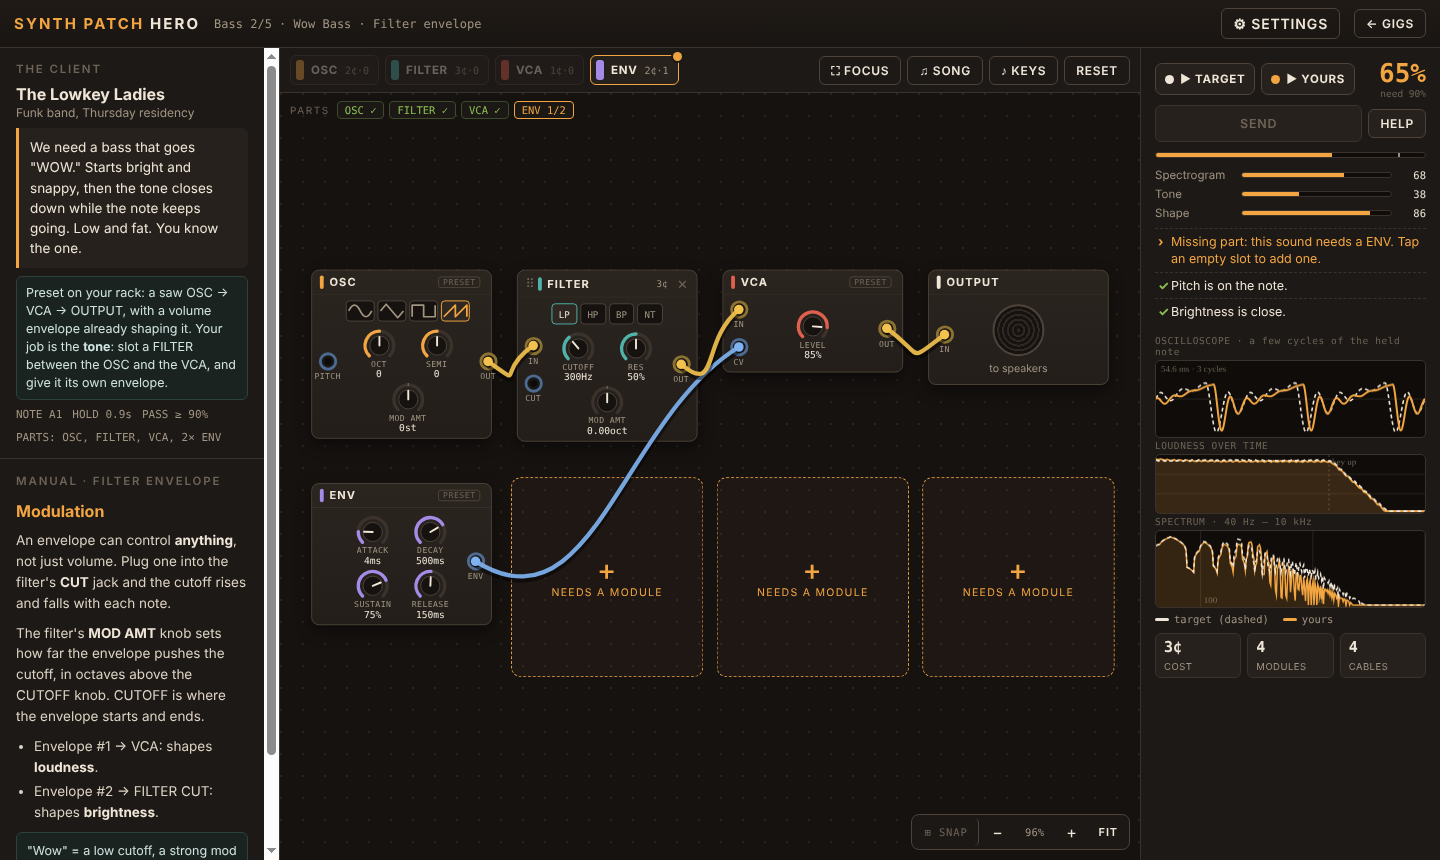
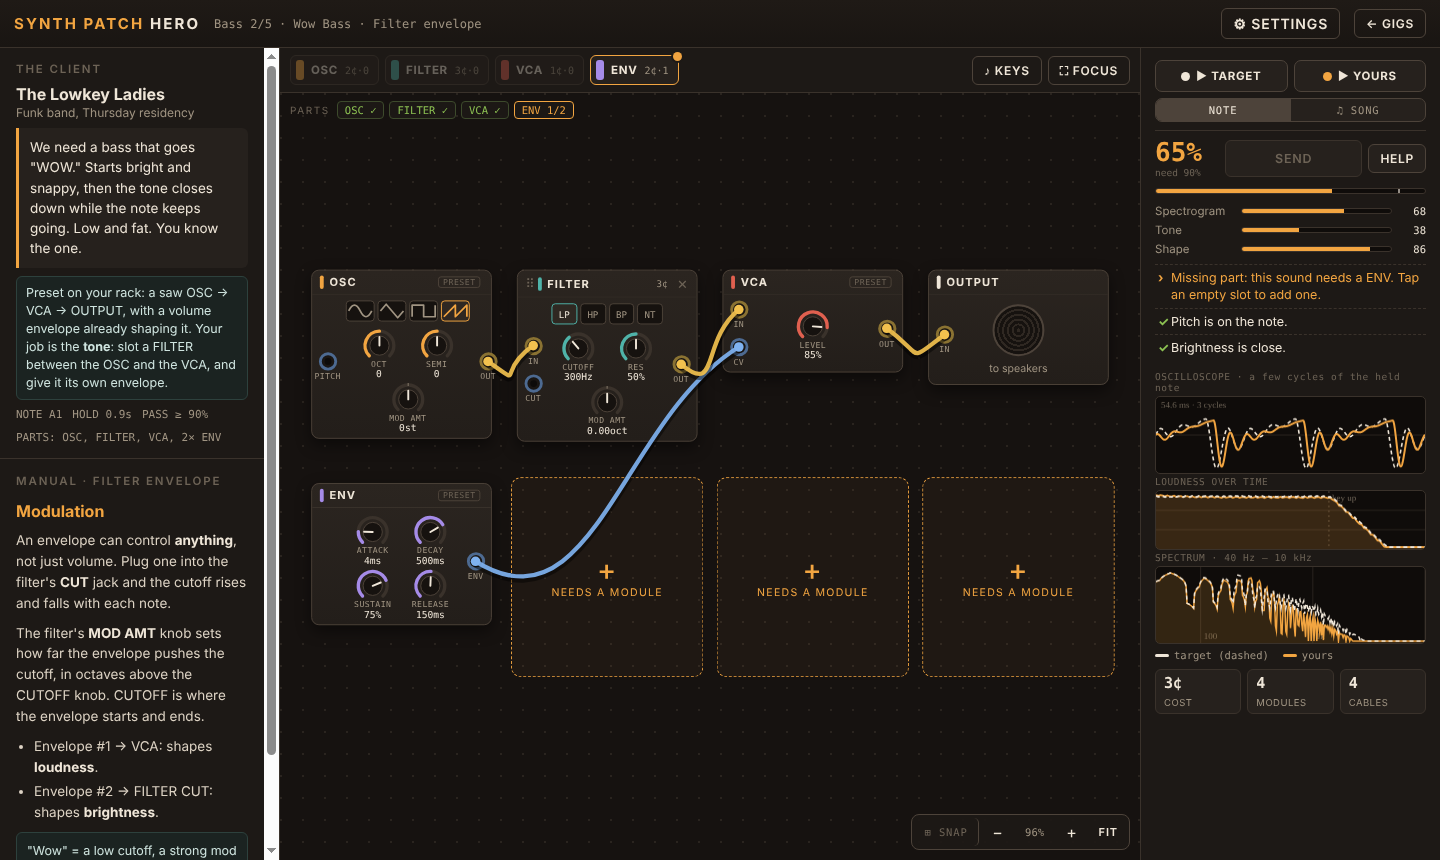
Tidy controls: Listen and Score groups; toolbar holds only view switches
Playtest: in focus mode "the buttons are kind of all over the place".
- The compare panel splits into Listen (▶ Target, ▶ Yours, and a
  Note | Song switch that sets what ▶ plays) and Score (match %, Send,
  Help). In focus mode on wide screens they sit side by side.
- The toolbar's right side holds only view switches: Keys and
  Focus / Exit focus. Reset moved to Settings → Reset this rack. Phones
  keep their compact strip, with ♫ beside Keys and Focus.
- No layout jump on open: graphs are sized at render, and phones reserve
  two lines for the hint. The first analysis used to move the toolbar
  31 px about 250 ms after a gig opened, which also made the iPhone tap
  test flaky.

Claude-Session: https://claude.ai/code/session_01D5scM1CNbwhd8cCv6p5T59

diff --git a/js/ui.js b/js/ui.js
@@ -579,8 +579,10 @@ function startCable(ev,portEl){
 /* ---------- compare panel ---------- */
 function renderCompare(){
   const c=$('#compare'), sb=S.sandbox; c.classList.remove('expanded');
-  c.innerHTML=`<div class="cmpTop">${sb?'':'<button class="playBtn t" id="pT"><span class="dot"></span>▶ TARGET</button>'}<button class="playBtn y" id="pY"><span class="dot"></span>▶ ${sb?'PLAY':'YOURS'}</button>
-    ${sb?'<div class="pctBox"><small>FREE JAM</small></div>':`<div class="pctBox"><b id="pct">–</b><small id="pctSub">need ${PASS}%</small></div><button class="btn primary" id="btnSubmit" disabled>Send</button><button class="btn" id="btnHelp" title="Stuck? Get a hint, or let Help patch a module or lock a knob"><span class="lbl">Help</span><span class="ico">?</span></button>`}</div>
+  c.innerHTML=`<div class="cmpTop">
+      <div class="grp listen" role="group" aria-label="Listen">${sb?'':'<button class="playBtn t" id="pT"><span class="dot"></span>▶ TARGET</button>'}<button class="playBtn y" id="pY"><span class="dot"></span>▶ ${sb?'PLAY':'YOURS'}</button>
+        <div class="seg" id="playSeg" role="group" aria-label="What ▶ plays"><button data-m="note" title="▶ plays one held note">NOTE</button><button data-m="song" title="▶ plays a short demo song (the same one you'll hear when you're paid)">♫ SONG</button></div></div>
+      <div class="grp score" role="group" aria-label="Score">${sb?'<div class="pctBox"><small>FREE JAM</small></div>':`<div class="pctBox"><b id="pct">–</b><small id="pctSub">need ${PASS}%</small></div><button class="btn primary" id="btnSubmit" disabled>Send</button><button class="btn" id="btnHelp" title="Stuck? Get a hint, or let Help patch a module or lock a knob"><span class="lbl">Help</span><span class="ico">?</span></button>`}</div></div>
     ${sb?'':`<div class="bar"><i id="barAll"></i><span class="thr" style="left:${PASS}%"></span></div>`}
     <div class="cmpBody">
       ${sb?'':`<div class="subs"><div class="sub"><span>Spectrogram</span><div class="bar"><i id="barSpec"></i></div><span id="vSpec"></span></div>
@@ -597,6 +599,8 @@ function renderCompare(){
       <div class="stats" id="stats"></div>
     </div>`;
   ['#pT','#pY','#btnHelp','#btnSubmit'].forEach(sel=>Haptics.upgrade(c.querySelector(sel)));
+  c.querySelectorAll('#playSeg button').forEach(b0=>{ const b=Haptics.upgrade(b0); b.addEventListener('click',()=>setSongMode(b.dataset.m==='song',true)); }); syncSongUI();
+  c.querySelectorAll('canvas.plot').forEach(cv=>{ try{ setupCanvas(cv); }catch(_){} });   // size graphs now, so the panel doesn't jump when the first analysis lands
   if(!sb){ $('#pT').onclick=()=>playTarget(); $('#btnSubmit').onclick=submit; $('#btnHelp').onclick=requestHelp;
     $('#hints').addEventListener('click',()=>{ if(S.mobile) toggleExpanded(); }); }
   $('#pY').onclick=()=>playYours();
@@ -617,9 +621,11 @@ function applyEngine(L){ const lad=!!(L&&L.studio==='ladder'); if(ENGINE!=='stud
 S.songMode=!!store.get('songMode',false);
 function playTarget(){ if(S.songMode&&!S.sandbox) flashPlay('pT',playSong(targetPatch(S.L),S.L)); else playFixed(targetPatch(S.L),S.L,'pT'); }
 function playYours(){ if(S.songMode) flashPlay('pY',playSong(S.patch,S.L||{note:45,ch:'basics'})); else playFixed(S.patch,S.L,'pY'); }
-function setSongMode(on){ S.songMode=on; store.set('songMode',on); stopOneShots(); const b=$('#songBtn'); b.classList.toggle('on',on); b.setAttribute('aria-pressed',on);
-  b.title=on?'Song mode is on: ▶ Target and ▶ Yours play a demo song. Tap for single notes.':'Song mode: ▶ Target and ▶ Yours play a short demo song instead of one note';
-  if(on) toast('Song mode: ▶ Target and ▶ Yours now play a short demo song.'); }
+function syncSongUI(){ const on=S.songMode, b=$('#songBtn'); if(b){ b.classList.toggle('on',on); b.setAttribute('aria-pressed',on);
+    b.title=on?'Song mode is on: ▶ Target and ▶ Yours play a demo song. Tap for single notes.':'Song mode: ▶ Target and ▶ Yours play a short demo song instead of one note'; }
+  document.querySelectorAll('#playSeg [data-m]').forEach(x=>{ const sel=(x.dataset.m==='song')===on; x.classList.toggle('on',sel); x.setAttribute('aria-pressed',sel); }); }
+function setSongMode(on,quiet){ if(on===S.songMode&&quiet) return; S.songMode=on; store.set('songMode',on); stopOneShots(); syncSongUI();
+  if(on&&!quiet) toast('Song mode: ▶ Target and ▶ Yours now play a short demo song.'); }
 function flashPlay(id,dur){ const b=document.getElementById(id); if(!b) return; b.classList.add('lit'); setTimeout(()=>b.classList.remove('lit'),dur*1000); }
 
 let aTimer=null, aSeq=0;
@@ -756,12 +762,10 @@ let rzT=null;
 window.addEventListener('resize',()=>{ clearTimeout(rzT); rzT=setTimeout(()=>{ if(!S.L) return; if(!S.userZoom) fitView(); else { clampView(); applyView(); } drawCables(); drawPlots(); renderKeys(); },80); });
 $('#kbDn').onclick=()=>{ S.kbLo-=12; renderKeys(); };
 $('#kbUp').onclick=()=>{ S.kbLo+=12; renderKeys(); };
-$('#songBtn').onclick=()=>setSongMode(!S.songMode); $('#songBtn').classList.toggle('on',S.songMode);
+$('#songBtn').onclick=()=>setSongMode(!S.songMode); syncSongUI();
 $('#keysBtn').onclick=()=>setKeysOpen(!S.keysOpen);
 $('#focusBtn').onclick=()=>setFocus(!S.focus);
 function resetRack(){ S.pick=null; showPatchbar(); freshPatch(); refreshRack(); scheduleAnalyze(); toast('Rack reset'); }
-$('#clearBtn').onclick=()=>{ const b=$('#clearBtn'); if(!b.dataset.armed){ b.dataset.armed=1; b.textContent='Sure?'; setTimeout(()=>{ b.textContent='Reset'; delete b.dataset.armed; },2500); return; }
-  delete b.dataset.armed; b.textContent='Reset'; resetRack(); };
 $('#kbClose').onclick=()=>setKeysOpen(false);
 /* ---------- settings sheet (⚙ in the top bar) ---------- */
 function openSettings(){

diff --git a/css/style.css b/css/style.css
@@ -546,3 +546,38 @@ label.kbClose,#btnHelp[role=button]{display:inline-flex;align-items:center;justi
 .zoomCtl .snap.on{color:var(--amber)}
 .slot.covered{border:1px dashed rgba(255,255,255,.05);background:transparent;pointer-events:none}
 .module.floating{box-shadow:0 10px 24px rgba(0,0,0,.55);z-index:3}
+
+/* ---------- Compare header: Listen (what plays) and Score (how you're doing) as two clear groups ---------- */
+.cmpTop{display:flex;flex-direction:column;align-items:stretch;gap:8px}
+.cmpTop .grp{display:grid;gap:6px;align-items:center}
+.cmpTop .grp.listen{grid-template-columns:1fr 1fr}
+.cmpTop .grp.listen .seg{grid-column:1/-1}
+.cmpTop .grp.score{grid-template-columns:auto 1fr auto;padding-top:8px;border-top:1px solid var(--line)}
+.cmpTop .grp.score .pctBox{text-align:left;min-width:64px}
+.cmpTop #btnSubmit{flex-basis:auto}
+.seg{display:flex;border:1px solid var(--line2);border-radius:7px;overflow:hidden;background:var(--panel2)}
+.seg button,.seg label[role=button]{flex:1;display:flex;align-items:center;justify-content:center;padding:5px 8px;font-family:var(--mono);font-size:10.5px;letter-spacing:.08em;color:var(--dim);background:transparent;border:0;cursor:pointer}
+.seg button+button,.seg label[role=button]+label[role=button]{border-left:1px solid var(--line2)}
+.seg .on{background:var(--line2);color:var(--text)}
+.seg [data-m=song].on{color:var(--amber)}
+/* Toolbar: only view switches live on the right, one style. Song mode lives with ▶ Target / ▶ Yours on wide screens. */
+.viewGrp{display:flex;gap:6px;align-items:center}
+@media (min-width:761px){ #songBtn{display:none} }
+#focusBtn.on{border-color:var(--amber);color:var(--amber)}
+/* Focus mode on wide screens: Listen | Score | hints | graphs, in one row */
+@media (min-width:761px){
+  body.focus .cmpTop{flex-direction:row;align-items:center;width:auto;gap:14px;display:flex}
+  body.focus .cmpTop .grp.listen{grid-template-columns:auto auto;width:auto}
+  body.focus .cmpTop .grp.score{grid-template-columns:auto auto auto;border-top:0;padding-top:0;padding-left:14px;border-left:1px solid var(--line);height:100%}
+  body.focus .cmpTop .grp.score .pctBox{min-width:56px}
+  body.focus #btnSubmit{padding:8px 14px}
+}
+/* Phones keep the compact one-row strip: groups dissolve into it; Song stays in the toolbar */
+@media (max-width:760px){
+  .cmpTop{flex-direction:row;align-items:center;gap:5px}
+  .cmpTop .grp{display:contents}
+  .cmpTop .seg{display:none}
+  .cmpTop .grp.score .pctBox{margin-left:auto;text-align:right;min-width:0}
+}
+@media (max-width:760px){ .viewGrp{order:2;flex:none;gap:5px} }
+@media (max-width:760px){ .compare:not(.expanded) #hints{min-height:38px} }   /* room for the 2-line hint from the start: no layout jump when analysis lands */

diff --git a/index.html b/index.html
@@ -47,10 +47,11 @@
       <button class="btn ghost briefBtn" id="briefBtn">Brief</button>
       <div id="palette" style="display:flex;gap:6px"></div>
       <span class="spacer"></span>
-      <button class="btn ghost" id="focusBtn" title="Full-screen focus mode: big board, compact compare bar (Shift+F)"><span class="ico">⛶</span><span class="lbl"> Focus</span></button>
-      <button class="btn ghost" id="songBtn" title="Song mode: ▶ Target and ▶ Yours play a short demo song instead of one note"><span class="ico">♫</span><span class="lbl"> Song</span></button>
-      <button class="btn ghost" id="keysBtn" title="Show the keyboard (USB/MIDI keyboards work even when hidden)"><span class="ico">♪</span><span class="lbl"> Keys</span></button>
-      <button class="btn ghost" id="clearBtn" title="Remove everything you added">Reset</button>
+      <div class="viewGrp" role="group" aria-label="View">
+        <button class="btn ghost" id="songBtn" title="Song mode: ▶ Target and ▶ Yours play a short demo song instead of one note"><span class="ico">♫</span><span class="lbl"> Song</span></button>
+        <button class="btn ghost" id="keysBtn" title="Show the keyboard (USB/MIDI keyboards work even when hidden)"><span class="ico">♪</span><span class="lbl"> Keys</span></button>
+        <button class="btn ghost" id="focusBtn" title="Full-screen focus mode: big board, compact compare bar (Shift+F)"><span class="ico">⛶</span><span class="lbl"> Focus</span></button>
+      </div>
     </div>
     <div class="viewport" id="viewport">
       <div id="stage"><div id="slots"></div><div id="mods"></div><svg id="cables"></svg></div>

diff --git a/docs/design.md b/docs/design.md
@@ -77,6 +77,14 @@ Feedback that drove it: difficulty rises fast (especially the VCA lesson); playe
   - Playtest on iPhone (Chrome): haptics worked for a few seconds, then stopped. Cause: WebKit only plays the switch haptic right after a real tap or release (transient user activation); a finger sliding across a knob, timers and async work don't count. So on iOS we fire only while `navigator.userActivation.isActive`, use a single tick (no delayed pulses), and knobs tick once **on release** after turning instead of during the drag (`Haptics.continuous` is false). Tap-driven feedback still works: −/+ in the knob editor, plugging cables, adding modules, keys, Send. The "crossed 90%" buzz usually arrives after async analysis, so it won't fire on iPhone.
 - **Jingle = the demo song** (playtest 2026-11-23: "be able to test the song jingle while building"). On Send, the result screen plays the gig's demo song on the player's own patch (a copy), with note markers that light in time (one per note, or one per beat for busy songs) and a ♫ Replay song button. It stops when the dialog closes. It's the same song ♫ Song mode plays on ▶ Yours while building, so players can preview exactly what they'll hear when paid. The separate per-chapter jingle phrases were removed. Test: jingle and song render identically.
 
+## Controls layout (playtest 2026-11-23: "buttons are kind of all over the place")
+- **Rule:** keep what plays, how you're doing, and how the screen looks in separate, consistent places, in normal and focus mode.
+- **Compare panel, Listen group:** ▶ Target and ▶ Yours, plus a **Note | Song** switch directly under them. It decides what ▶ plays: one held note, or the demo song that's also the end-of-gig jingle.
+- **Compare panel, Score group:** match %, **Send** and **Help**, under a divider. In focus mode on wide screens, Listen | Score | hints | graphs run left to right in one bar.
+- **Toolbar right side, view switches only:** ♪ Keys and ⛶ Focus (✕ Exit focus while focused, amber). **Reset** moved to ⚙ Settings → Reset this rack, so a destructive button doesn't sit beside view toggles.
+- **Phones:** keep the compact strip (▶ Target · ▶ Yours · % · Send · ?). Song mode stays as the ♫ icon beside Keys and Focus for space.
+- **No layout jump on open:** graphs are sized when the panel renders, and on phones the hint area reserves two lines. Before this, the first analysis resized both, shifting the toolbar 31 px about 250 ms after a gig opened, so taps could land on the wrong control. Test: the phone layout holds still.
+
 ## Browser history and links
 - Playtest, 2026-11-22: pressing Back left the site. Now each screen has an address:
   - the gig board is `#/`;

diff --git a/README.md b/README.md
@@ -20,7 +20,7 @@ There's no build step and there are no dependencies: it's plain HTML, CSS and Ja
 1. **Pick a gig.** Browse by chapter with the chips at the top, or filter to what's left to do. Tap ▶ on any gig card to hear the client's sound in a short demo song before you take it on. Then open it and read the brief and the manual page for that lesson.
 2. **Fill the board.** OUTPUT sits in the top-right slot, and some gigs start with **preset** modules already wired. Tap an empty slot (or a palette button) to add a module. The **Parts** chips (`FILTER 0/1`) tell you what's still missing.
 3. **Patch.** Drag from jack to jack, or tap one jack and then another. To rearrange, drag a module by its ⠿ name bar, or tap the name bar and then tap where it should go. Modules stay wherever you drop them. Turn on **⊞ Snap** to drop them neatly into boxes instead. Yellow cables carry audio, blue cables carry control signals. Click a cable to unplug it.
-4. **Listen.** ▶ Target and ▶ Yours play one note. Switch on **♫ Song** to hear both in a short demo song instead.
+4. **Listen.** ▶ Target and ▶ Yours play one note. Flip the **Note | Song** switch under them to hear both in a short demo song instead.
 5. **Tune.** Drag knobs up and down (Shift for fine control), or **click a knob** for a precise editor with fine −/+ steps and arrow keys.
 6. **Compare.** ▶ Target vs ▶ Yours, plus an oscilloscope, loudness and spectrum overlays and hints, are always on screen. Press **⛶ Focus** (or Shift+F) for a full-screen board with a compact compare bar.
 7. **Stuck?** Press **Help**. It first points out missing modules or cables (and can patch them for you), then names the knob that matters most and explains it. Press again and it can **lock** that knob at the client's value. Tap a locked knob to see why, or to unlock it.
